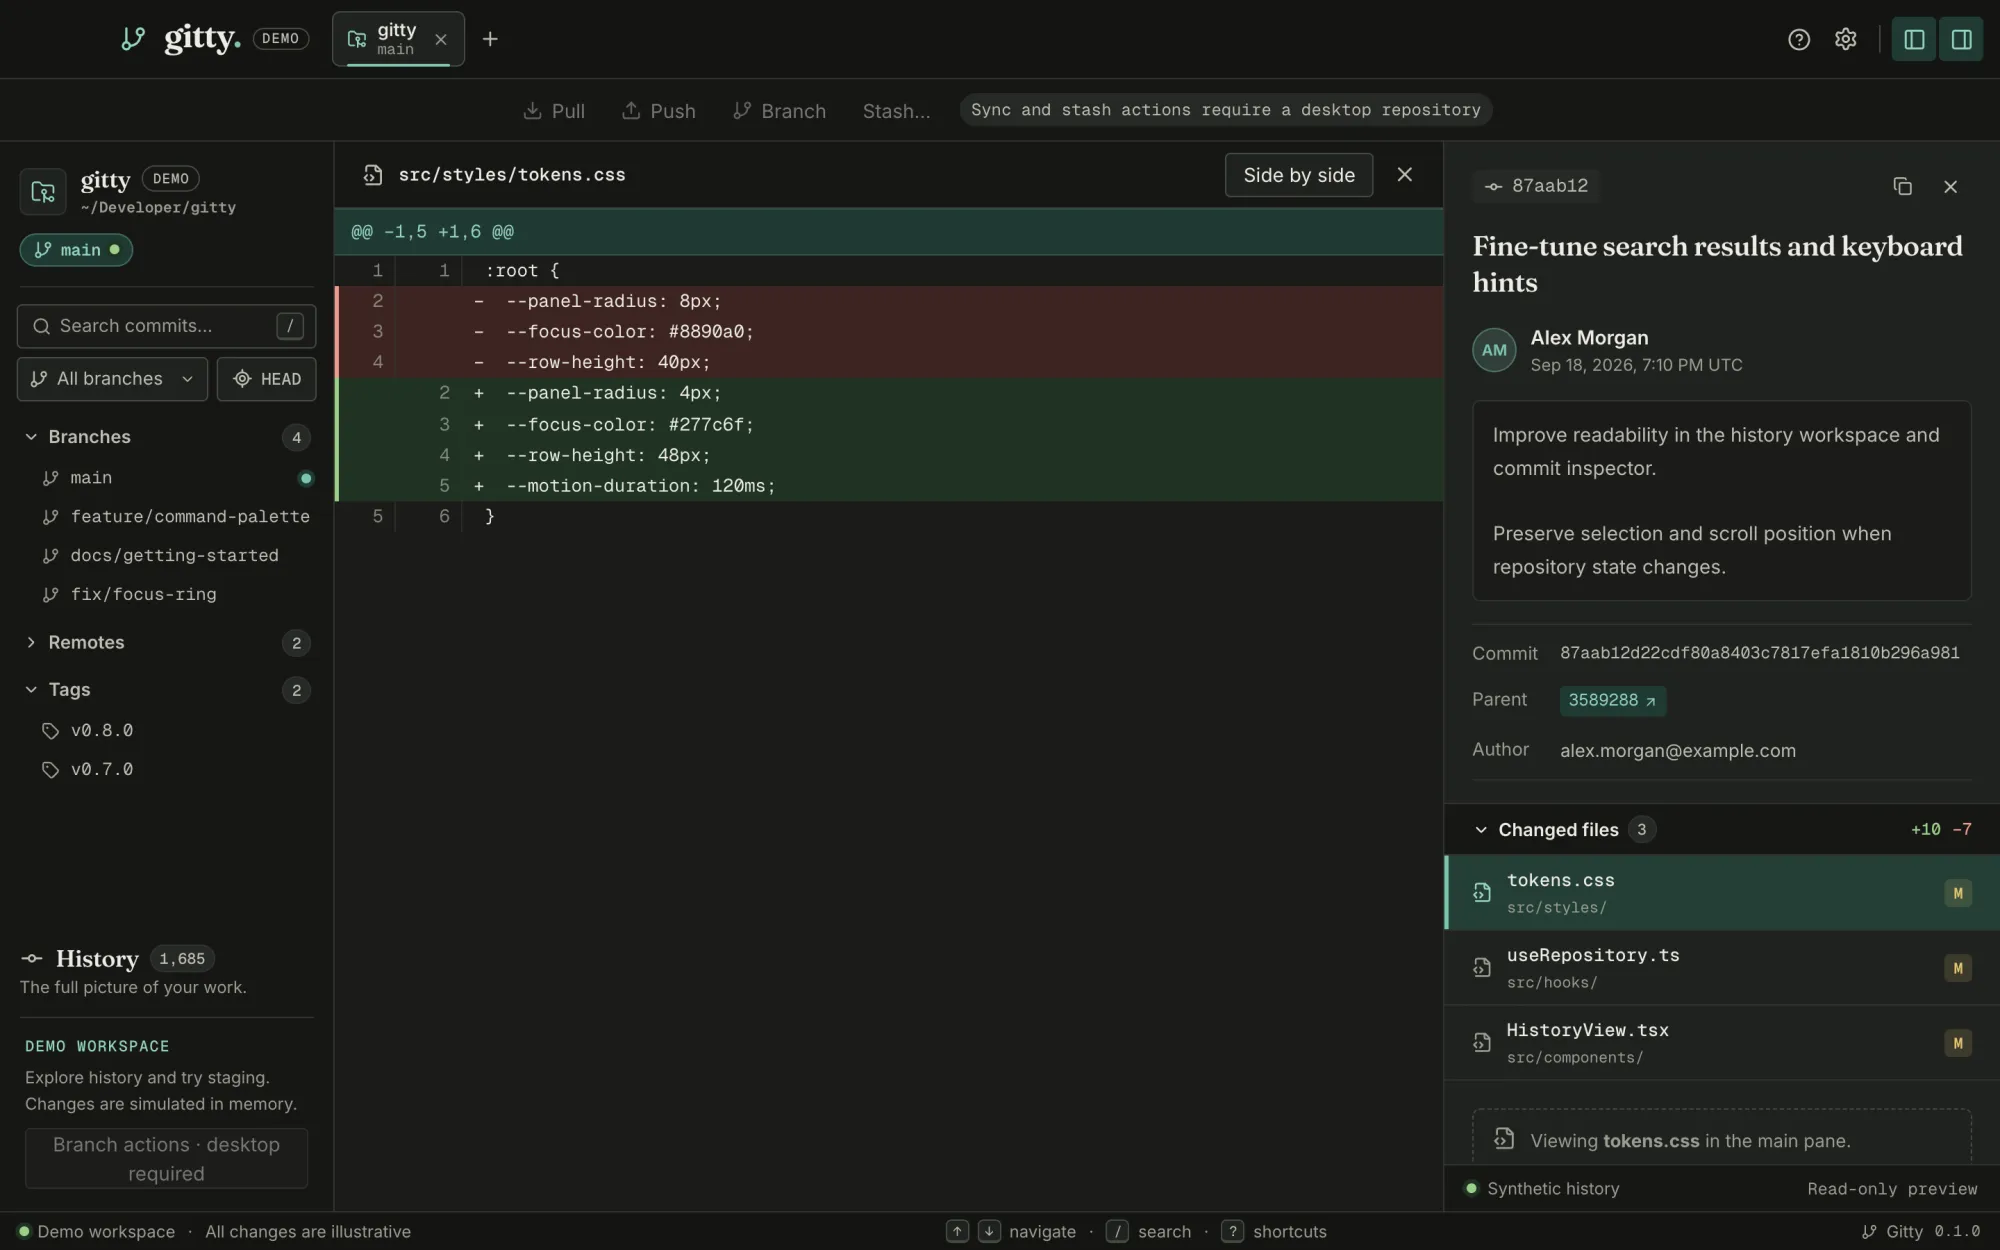
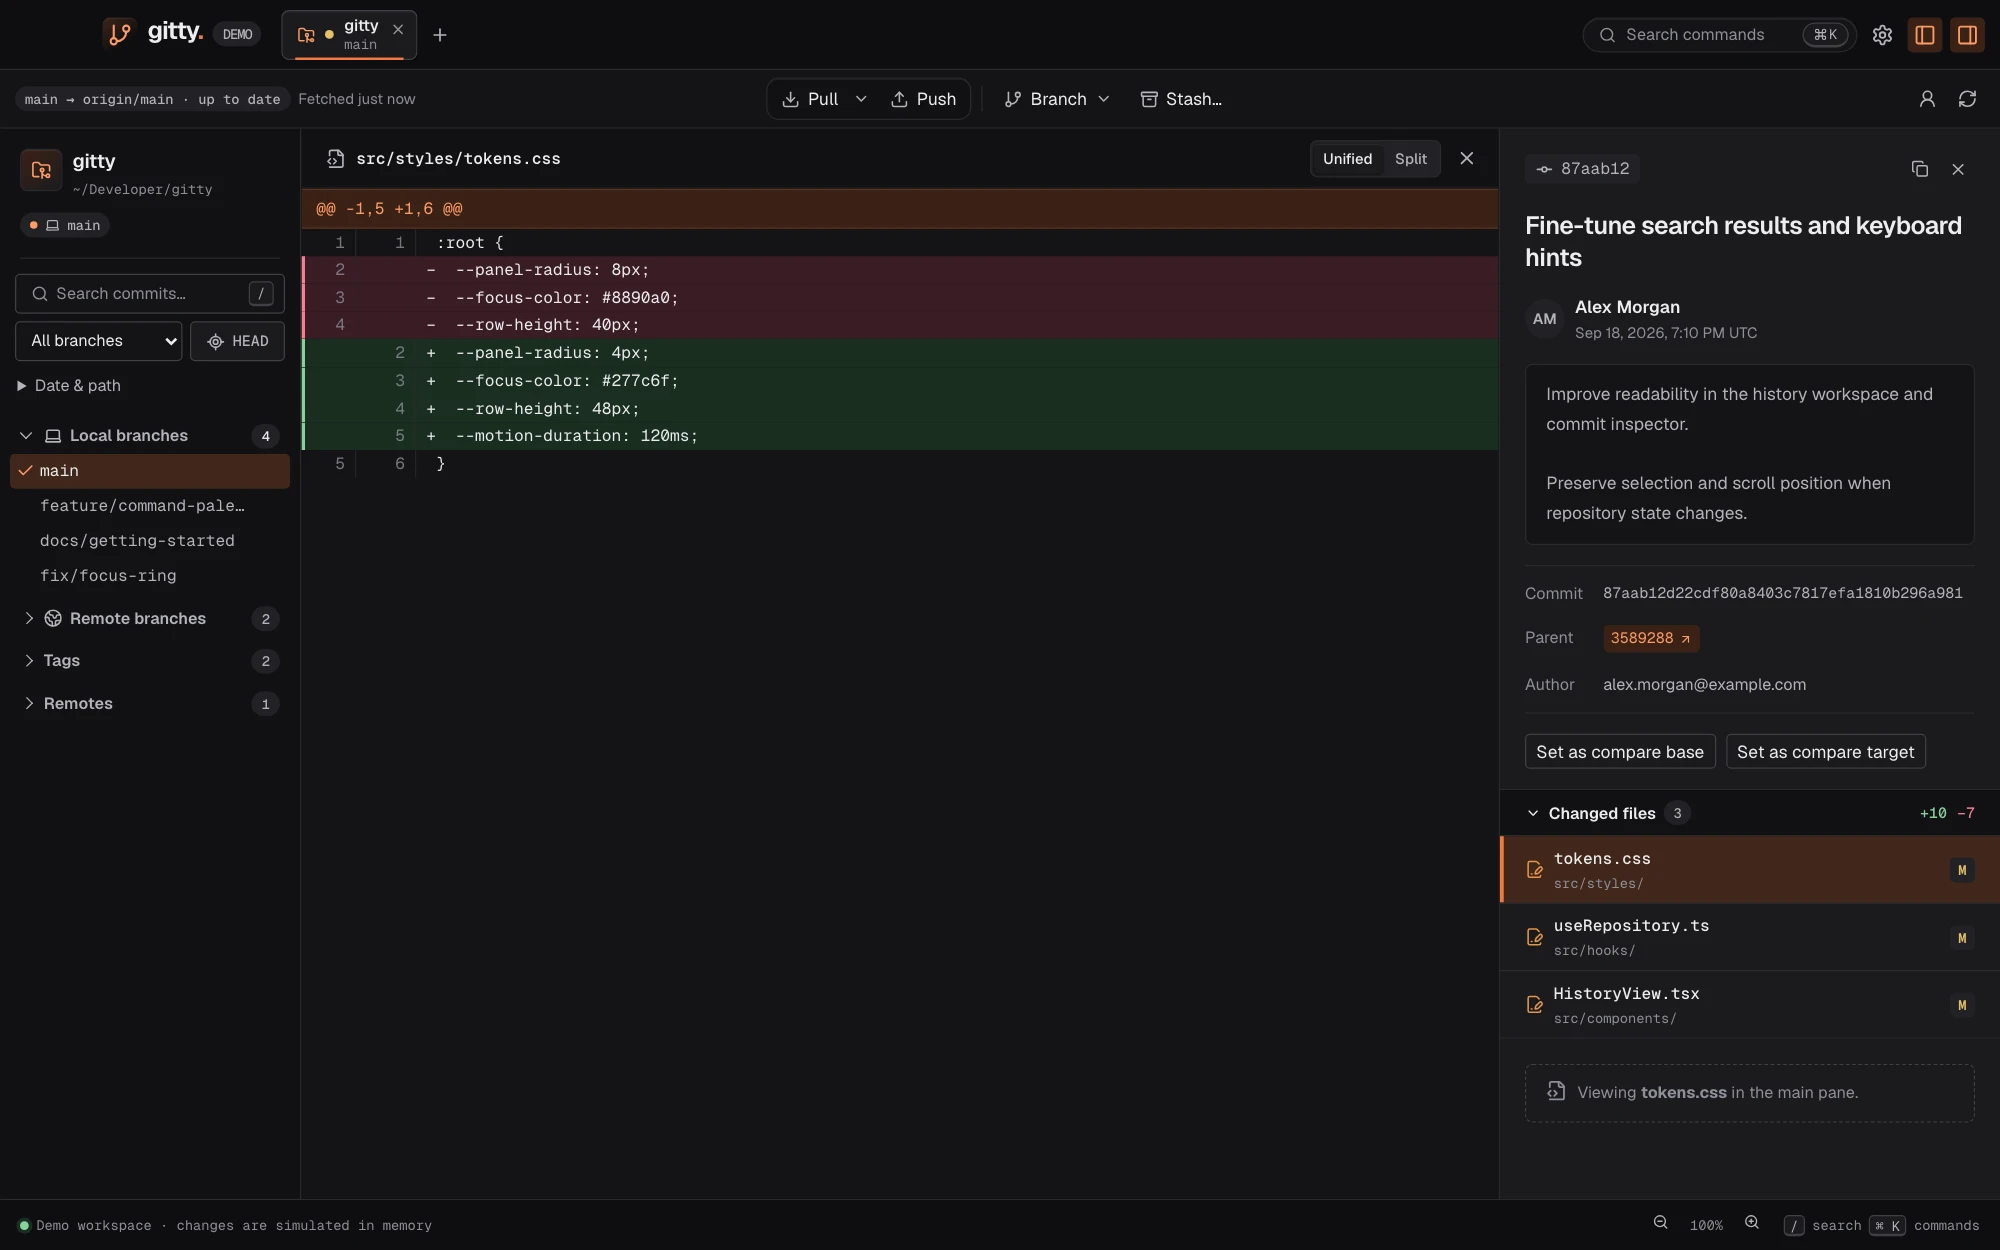
Refresh project screenshots and portrait layout

diff --git a/src/styles.css b/src/styles.css
@@ -132,6 +132,7 @@ main, .site-footer { position: relative; z-index: 1; }
 .shot { margin: 0; }
 .shot img { display: block; width: 100%; height: auto; border: 1px solid var(--line); background: color-mix(in srgb, var(--ink) 6%, var(--bg)); }
 .shot--phone img { border-radius: clamp(1.25rem, 3vw, 2.25rem); }
+.shot--portrait { max-width: 24rem; margin-inline: auto; }
 .shot figcaption { margin-top: 0.85rem; font: 500 0.75rem/1.4 var(--mono); color: var(--muted); }
 .case-lead { margin: 0 calc(var(--gutter) * -0.5); }
 .phone-row { display: grid; grid-template-columns: repeat(var(--count), minmax(0, 1fr)); gap: clamp(1rem, 2.5vw, 2.5rem); max-width: calc(var(--count) * 20rem); align-items: start; }
@@ -153,6 +154,16 @@ main, .site-footer { position: relative; z-index: 1; }
 .shot--right { grid-column: 3 / span 10; }
 .case-highlights + .phone-row { margin: 0 auto clamp(5rem, 14vh, 9rem); }
 .case-stack { padding-bottom: clamp(5rem, 14vh, 9rem); }
+.case-details { display: contents; }
+@media (min-width: 1024px) {
+  .case-details:has(.shot--portrait) { display: grid; grid-template-columns: minmax(0, 1fr) 24rem; column-gap: clamp(3rem, 8vw, 8rem); align-items: start; padding: 2rem 0 clamp(5rem, 14vh, 9rem); }
+  .case-details:has(.shot--portrait) > .case-lead { grid-column: 2; grid-row: 1 / span 3; margin: 0; }
+  .case-details:has(.shot--portrait) > section { grid-column: 1; }
+  .case-details:has(.shot--portrait) .case-story { display: flex; flex-direction: column; padding-top: 0; padding-bottom: 3rem; }
+  .case-details:has(.shot--portrait) .case-highlights { padding-bottom: 3rem; }
+  .case-details:has(.shot--portrait) .hl-list { grid-template-columns: 1fr; }
+  .case-details:has(.shot--portrait) .case-stack { padding-bottom: 0; }
+}
 .tags { list-style: none; margin: 0; padding: 0; display: flex; flex-wrap: wrap; gap: 0.5rem; max-width: 60rem; }
 .tags li { padding: 0.5rem 0.8rem; border: 1px solid var(--line); font: 500 0.8125rem/1 var(--mono); }
 .case-next { border-top: 1px solid var(--line); padding: clamp(4rem, 10vh, 6rem) 0; }

diff --git a/src/content/projects.js b/src/content/projects.js
@@ -139,8 +139,8 @@ export const projects = [
       ['Distribution', 'Signed and notarised builds for macOS and Windows from a CI workflow, with tokens in the OS credential store.'],
     ],
     images: [
-      { src: '/work/gitty/graph.webp', w: 2000, h: 1250, alt: 'Gitty window with branches sidebar, commit graph with coloured lanes, and commit details.', caption: 'History view with the commit graph. Synthetic demo repository.' },
-      { src: '/work/gitty/diff.webp', w: 2000, h: 1250, alt: 'Gitty showing a file diff for a selected commit.', caption: 'Commit diff.' },
+      { src: '/work/gitty/graph.webp', w: 2000, h: 1250, alt: 'Gitty window with branches sidebar, commit graph with coloured lanes, working changes and commit details.', caption: 'Current Gitty history view. Synthetic demo repository.' },
+      { src: '/work/gitty/diff.webp', w: 2000, h: 1250, alt: 'Gitty showing a unified CSS file diff beside the selected commit’s details.', caption: 'Unified commit diff. Synthetic demo repository.' },
     ],
   },
   {
@@ -165,7 +165,7 @@ export const projects = [
       ['Backend', 'A Django Ninja API on PostgreSQL receives synced shifts and serves the feeds, deployed on Railway.'],
     ],
     images: [
-      { src: '/work/altiplan/extension.webp', w: 1280, h: 800, alt: 'Chrome extension popup next to a phone showing day, evening and night shifts.', caption: 'Chrome extension. Demo shifts.' },
+      { src: '/work/altiplan/extension.webp', w: 760, h: 2126, alt: 'Altiplan Calendar extension popup showing a calendar feed, QR code and three demo shifts for October 2026.', caption: 'Actual extension popup with synthetic shifts and a dummy subscription feed.' },
     ],
   },
   {
